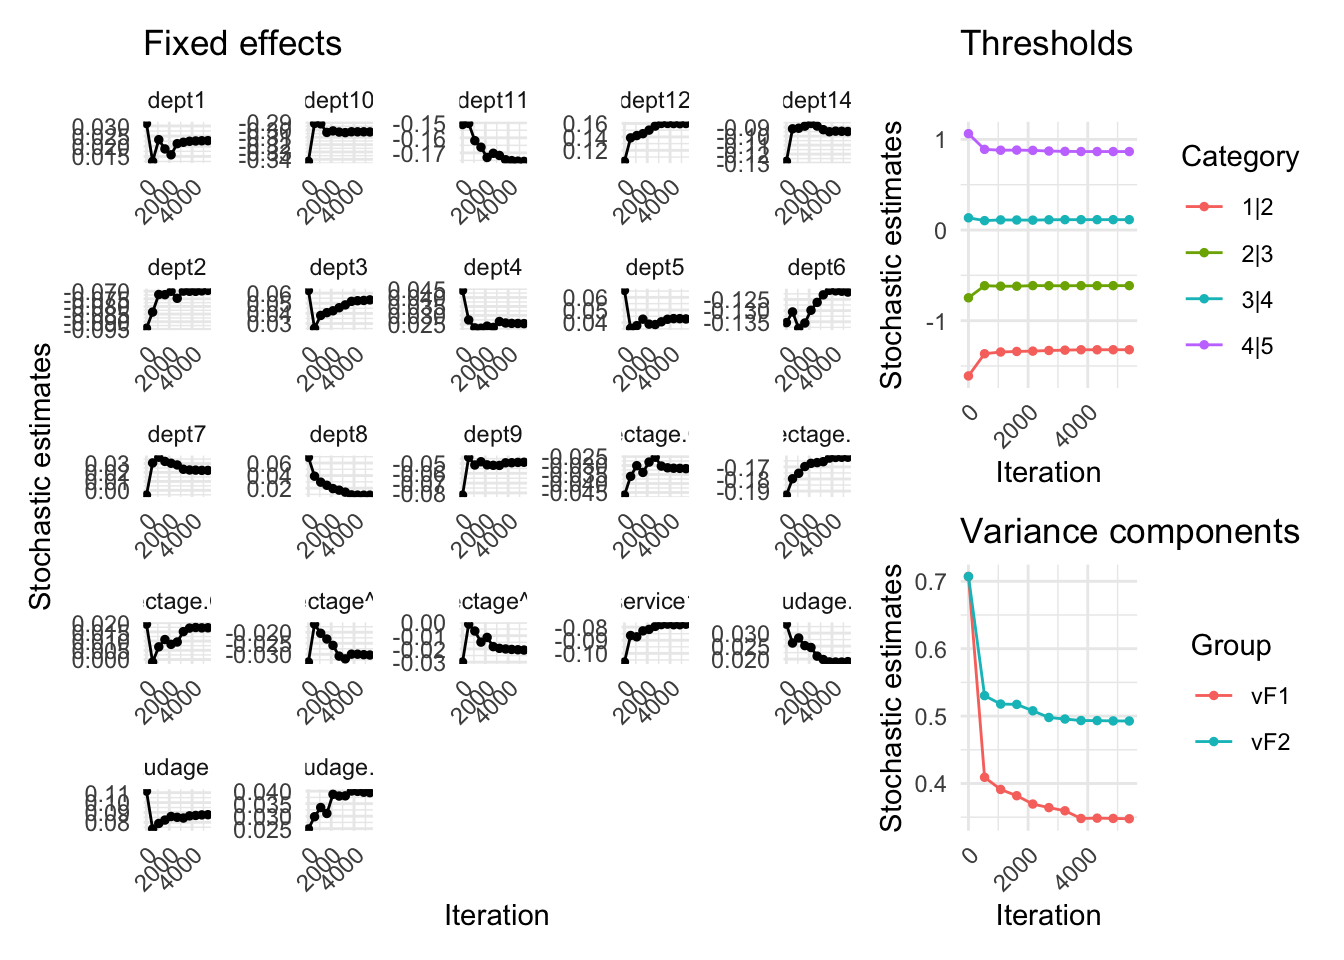
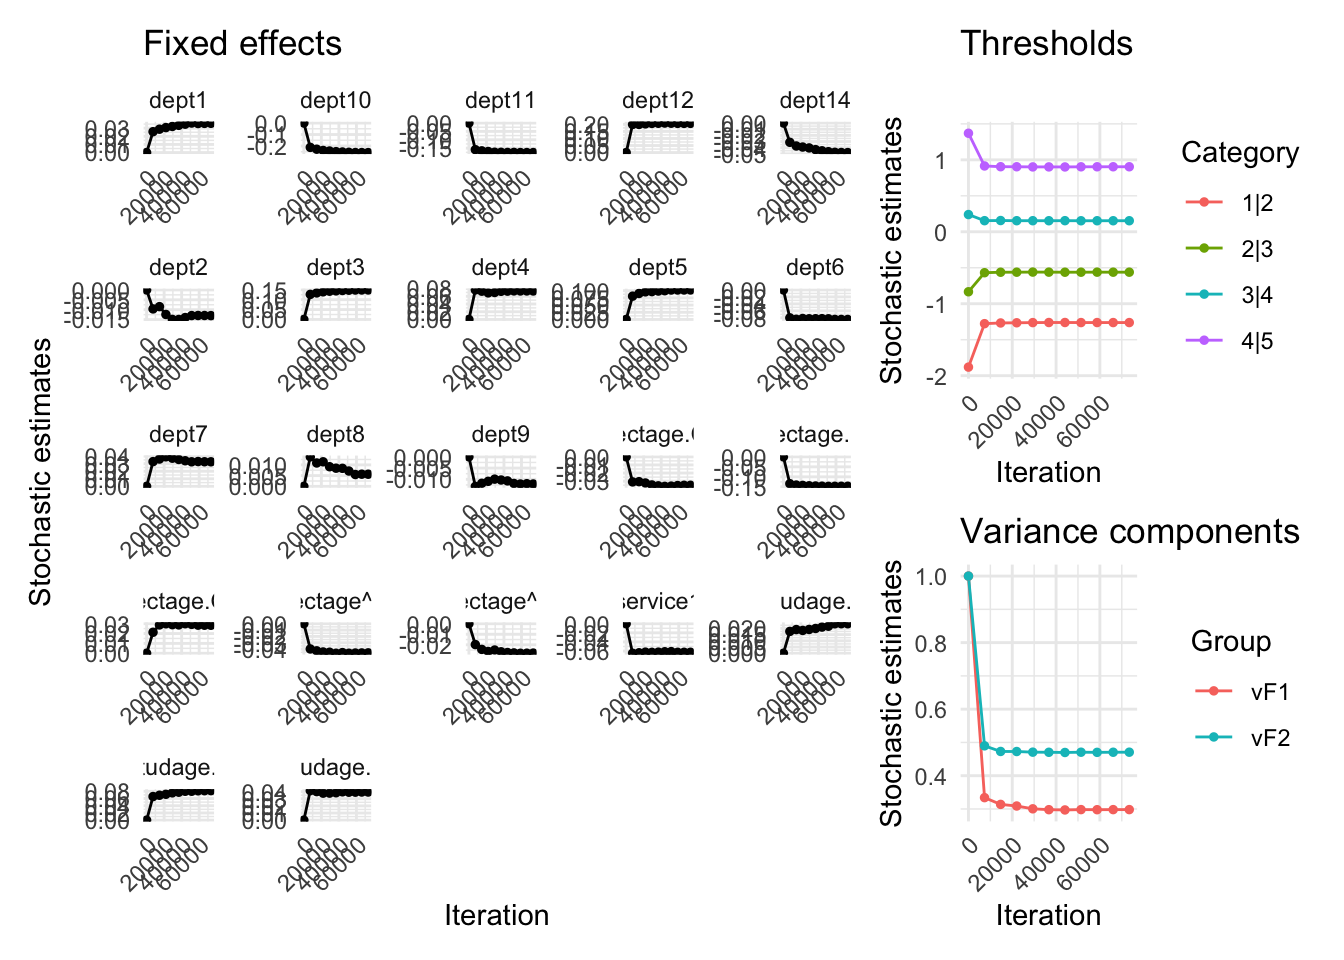
Update external dependence pbv

diff --git a/src/utils.cpp b/src/utils.cpp
@@ -5,71 +5,77 @@ double weights[] = {0.044333151939163, 0.294973376977114, 0.429812481900555, 0.2
 double nodes[] = {1.122716044601626, 0.803901112364718, 0.576197647416307, 0.410913788475565, 0.291479895013730};
 
 
+// double utils::pbvnorm(Rcpp::NumericVector& UPPER, double R){
+//   double H1 = UPPER[0];
+//   double HK = UPPER[1];
+//   int NX=5;
+//   std::vector<double> X(NX);
+//   std::vector<double> W(NX);
+//   // data
+//   X[0]=.04691008;
+//   X[1]=.23076534;
+//   X[2]=.5;
+//   X[3]=.76923466;
+//   X[4]=.95308992;
+//   W[0]=.018854042;
+//   W[1]=.038088059;
+//   W[2]=.0452707394;
+//   W[3]=.038088059;
+//   W[4]=.018854042;
+//   // declarations
+//   double bv = 0;
+//   double r1, r2, rr, rr2, r3, h3, h5, h6, h7, aa, ab, h11;
+//   double cor_max = 0.7;
+//   double bv_fac1 = 0.13298076;
+//   double bv_fac2 = 0.053051647;
+//   // computation
+//   double h2 = HK;
+//   double h12 = (H1*H1+h2*h2)/2;
+//   double r_abs = std::abs(R);
+//   if (r_abs > cor_max){
+//     r2 = 1.0 - R*R;
+//     r3 = std::sqrt(r2);
+//     if (R<0){
+//       h2 = -h2;
+//     }
+//     h3 = H1*h2;
+//     h7 = std::exp( -h3 / 2.0);
+//     if ( r_abs < 1){
+//       h6 = std::abs(H1-h2);
+//       h5 = h6*h6 / 2.0;
+//       h6 = h6 / r3;
+//       aa = 0.5 - h3 / 8.0;
+//       ab = 3.0 - 2.0 * aa * h5;
+//       bv = bv_fac1*h6*ab*(1-R::pnorm(h6, 0, 1, 1, 0))-std::exp(-h5/r2)*(ab + aa*r2)*bv_fac2;
+//       for (int ii=0; ii<NX; ii++){
+//         r1 = r3*X[ii];
+//         rr = r1*r1;
+//         r2 = std::sqrt( 1.0 - rr);
+//         bv += - W[ii]*std::exp(- h5/rr)*(std::exp(-h3/(1.0+r2))/r2/h7 - 1.0 - aa*rr);
+//       }
+//     }
+//     h11 = std::min(H1,h2);
+//     bv = bv*r3*h7 + R::pnorm(h11, 0, 1, 1, 0);
+//     if (R < 0){
+//       bv = R::pnorm(H1, 0, 1, 1, 0) - bv;
+//     }
+
+//   } else {
+//     h3=H1*h2;
+//     for (int ii=0; ii<NX; ii++){
+//       r1 = R*X[ii];
+//       rr2 = 1.0 - r1*r1;
+//       bv += W[ii] * std::exp(( r1*h3 - h12)/rr2)/ std::sqrt(rr2);
+//     }
+//     bv = R::pnorm(H1, 0, 1, 1, 0)*R::pnorm(h2, 0, 1, 1, 0) + R*bv;
+//   }
+//   return bv;
+// }
+
 double utils::pbvnorm(Rcpp::NumericVector& UPPER, double R){
   double H1 = UPPER[0];
   double HK = UPPER[1];
-  int NX=5;
-  std::vector<double> X(NX);
-  std::vector<double> W(NX);
-  // data
-  X[0]=.04691008;
-  X[1]=.23076534;
-  X[2]=.5;
-  X[3]=.76923466;
-  X[4]=.95308992;
-  W[0]=.018854042;
-  W[1]=.038088059;
-  W[2]=.0452707394;
-  W[3]=.038088059;
-  W[4]=.018854042;
-  // declarations
-  double bv = 0;
-  double r1, r2, rr, rr2, r3, h3, h5, h6, h7, aa, ab, h11;
-  double cor_max = 0.7;
-  double bv_fac1 = 0.13298076;
-  double bv_fac2 = 0.053051647;
-  // computation
-  double h2 = HK;
-  double h12 = (H1*H1+h2*h2)/2;
-  double r_abs = std::abs(R);
-  if (r_abs > cor_max){
-    r2 = 1.0 - R*R;
-    r3 = std::sqrt(r2);
-    if (R<0){
-      h2 = -h2;
-    }
-    h3 = H1*h2;
-    h7 = std::exp( -h3 / 2.0);
-    if ( r_abs < 1){
-      h6 = std::abs(H1-h2);
-      h5 = h6*h6 / 2.0;
-      h6 = h6 / r3;
-      aa = 0.5 - h3 / 8.0;
-      ab = 3.0 - 2.0 * aa * h5;
-      bv = bv_fac1*h6*ab*(1-R::pnorm(h6, 0, 1, 1, 0))-std::exp(-h5/r2)*(ab + aa*r2)*bv_fac2;
-      for (int ii=0; ii<NX; ii++){
-        r1 = r3*X[ii];
-        rr = r1*r1;
-        r2 = std::sqrt( 1.0 - rr);
-        bv += - W[ii]*std::exp(- h5/rr)*(std::exp(-h3/(1.0+r2))/r2/h7 - 1.0 - aa*rr);
-      }
-    }
-    h11 = std::min(H1,h2);
-    bv = bv*r3*h7 + R::pnorm(h11, 0, 1, 1, 0);
-    if (R < 0){
-      bv = R::pnorm(H1, 0, 1, 1, 0) - bv;
-    }
-
-  } else {
-    h3=H1*h2;
-    for (int ii=0; ii<NX; ii++){
-      r1 = R*X[ii];
-      rr2 = 1.0 - r1*r1;
-      bv += W[ii] * std::exp(( r1*h3 - h12)/rr2)/ std::sqrt(rr2);
-    }
-    bv = R::pnorm(H1, 0, 1, 1, 0)*R::pnorm(h2, 0, 1, 1, 0) + R*bv;
-  }
-  return bv;
+  return pbv::pbv_rcpp_pbvnorm0(H1, HK, R);
 }
 
 //

diff --git a/src/utils.h b/src/utils.h
@@ -4,6 +4,7 @@
 #include <Rcpp.h>
 #include <RcppEigen.h>
 #include <random>
+#include <pbv.h>
 
 namespace utils{
 
